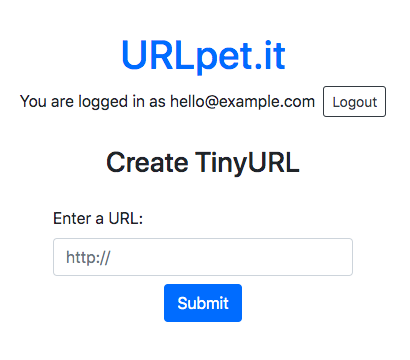
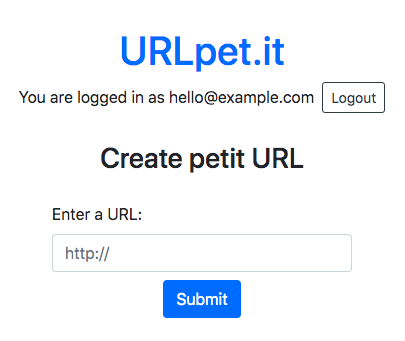
Change all instances to URLpet.it

diff --git a/express_server.js b/express_server.js
@@ -98,7 +98,7 @@ app.get("/register", (req, res) => {
   res.render("urls_register", templateVars);
 })
 
-//CREATE NEW TINYURL 
+//CREATE NEW PETIT URL 
 app.get("/urls/new", (req, res) => {
   let cookieId = req.session.user_id;
   if(!cookieId){
@@ -156,7 +156,7 @@ app.get("/u/:shortURL", (req, res) => {
 
 //********POST ROUTES********
 
-//CREATE A NEW TINYURL 
+//CREATE A NEW PETIT URL
 app.post("/urls", (req, res) => {
   if(req.session.user_id){
     let shortURL = generateRandomString();
@@ -169,7 +169,7 @@ app.post("/urls", (req, res) => {
   res.redirect("/login");
 });
 
-//EDIT YOUR TINYURL
+//EDIT YOUR PETIT URL
 app.post("/urls/:id", (req, res) => {
   if(!req.session.user_id){
     req.session.error = "You must be logged in to do that!";
@@ -236,5 +236,5 @@ app.post("/logout", (req, res) => {
 })
 
 app.listen(PORT, () => {
-  console.log(`Server Started!!! TinyURL is listening on port ${PORT}!`);
+  console.log(`Server Started!!! URLpet.it is listening on port ${PORT}!`);
 });

diff --git a/README.md b/README.md
@@ -1,4 +1,4 @@
-# TinyApp Project
+# URLpet.it Project
 
 URLpet.it is a full stack web application built with Node and Express that allows users to shorten long URL's(à la bit.ly).
 
